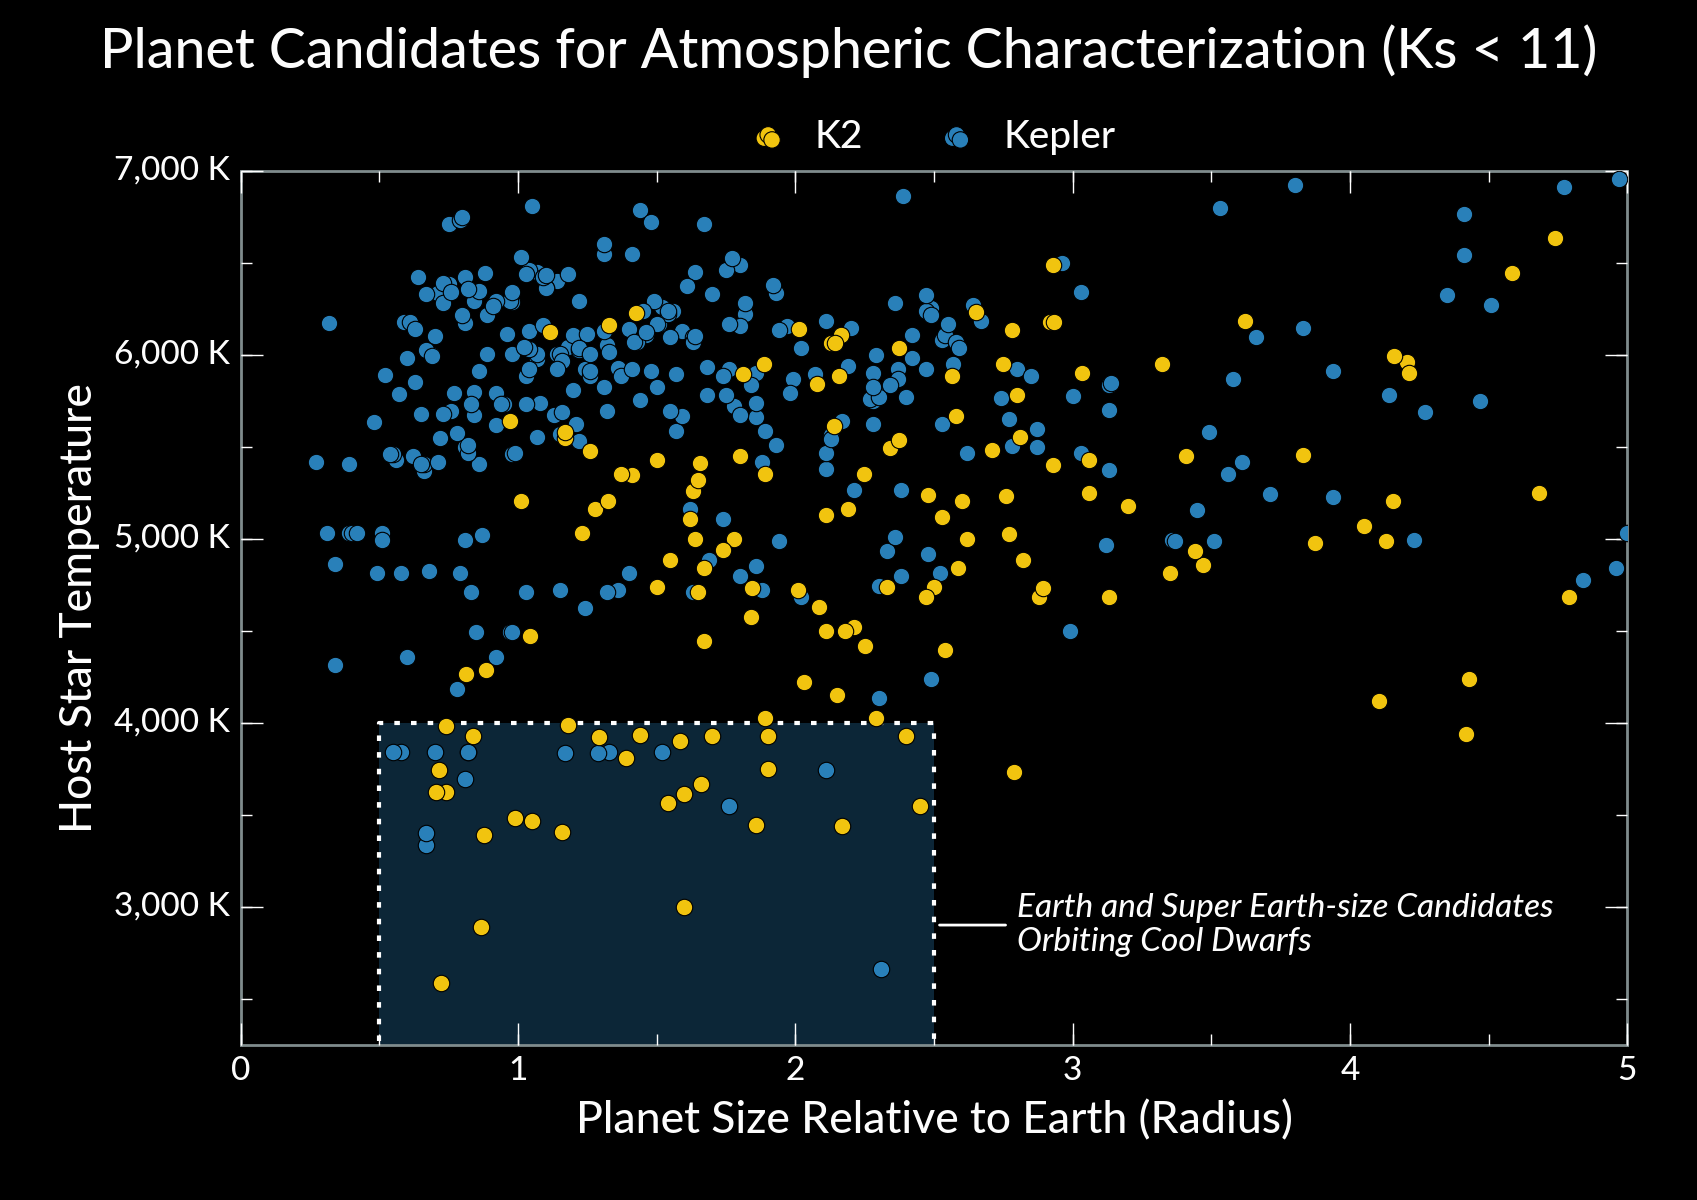
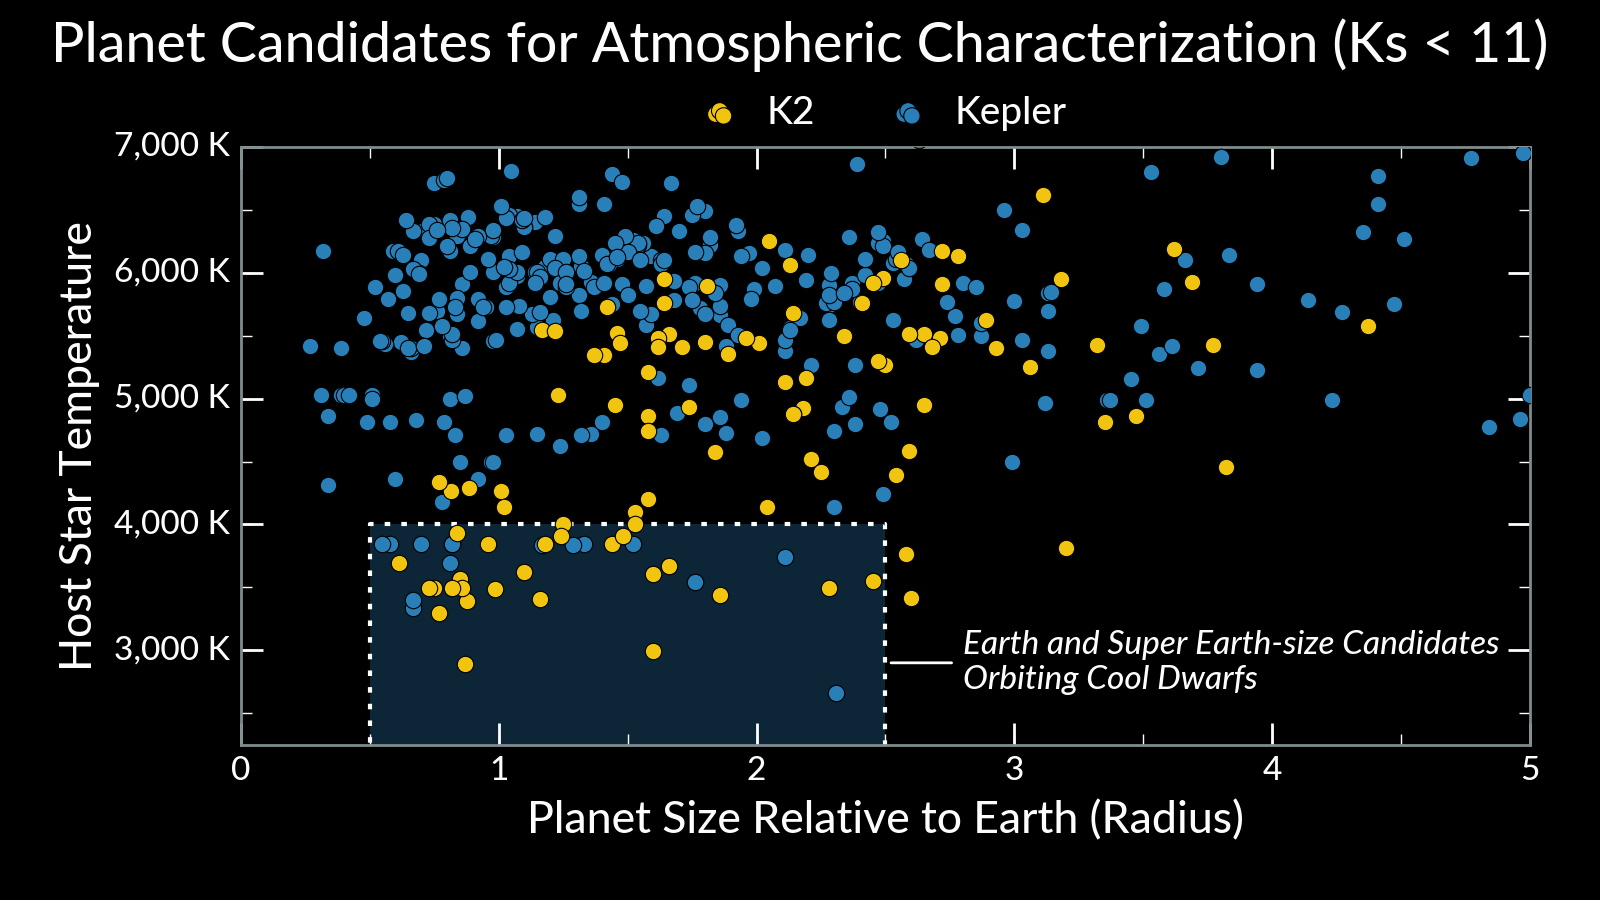
Update planet graphs

diff --git a/k2-planets/k2-planets-for-atmospheric-characterization.py b/k2-planets/k2-planets-for-atmospheric-characterization.py
@@ -5,7 +5,7 @@ from matplotlib import style
 import seaborn as sns
 import pandas as pd
 
-SHOW_KEPLER = False
+SHOW_KEPLER = False #True
 K_MAGNITUDE_CUT = 11
 OUTPUT_PREFIX = 'k2-planets-for-atmospheric-characterization'
 OUTPUT_SUFFIX = '.png'
@@ -16,12 +16,12 @@ if SHOW_KEPLER:
 palette = sns.color_palette(['#f1c40f', '#2980b9'])
 style.use('../styles/black.mplstyle')
 
-k2_df = pd.read_csv('../data/k2-planets.csv')
+k2_df = pd.read_csv('../data/k2-candidate-planets.csv')
 k2_df = k2_df[k2_df.st_k2 <= K_MAGNITUDE_CUT]
 
 print('Plotting {} points.'.format(len(k2_df)))
 
-fig = pl.figure()
+fig = pl.figure(figsize=(8, 4.5))
 pl.fill_between([.5, .5, 2.5, 2.5, .5],
                 [2000, 4000, 4000, 2000, 2000],
                 zorder=-1, alpha=0.3,
@@ -39,11 +39,13 @@ pl.scatter(k2_df.pl_rade, k2_df.st_teff,
            zorder=30)
 
 if SHOW_KEPLER:
-    kepler_df = pd.read_csv('../data/kepler-candidates.csv')
+    kepler_df = pd.read_csv('../data/kepler-candidate-planets.csv')
     kepler_df = kepler_df[kepler_df.koi_kmag <= K_MAGNITUDE_CUT]
     pl.scatter(kepler_df.koi_prad, kepler_df.koi_steff,
-               lw=0.4, s=35, label='Kepler',
-               facecolor='#2980b9', edgecolor='black',
+               lw=0.4, s=35,
+               label='Kepler',
+               facecolor='#2980b9',
+               edgecolor='black',
                zorder=20)
 
 pl.legend(bbox_to_anchor=(0., 1., 1., 0.),
@@ -51,7 +53,8 @@ pl.legend(bbox_to_anchor=(0., 1., 1., 0.),
           ncol=2,
           borderaxespad=0.,
           handlelength=0.8,
-          frameon=False)
+          frameon=False,
+          scatterpoints=3)
 
 # Annotations
 pl.annotate("Earth and Super Earth-size Candidates\n"
